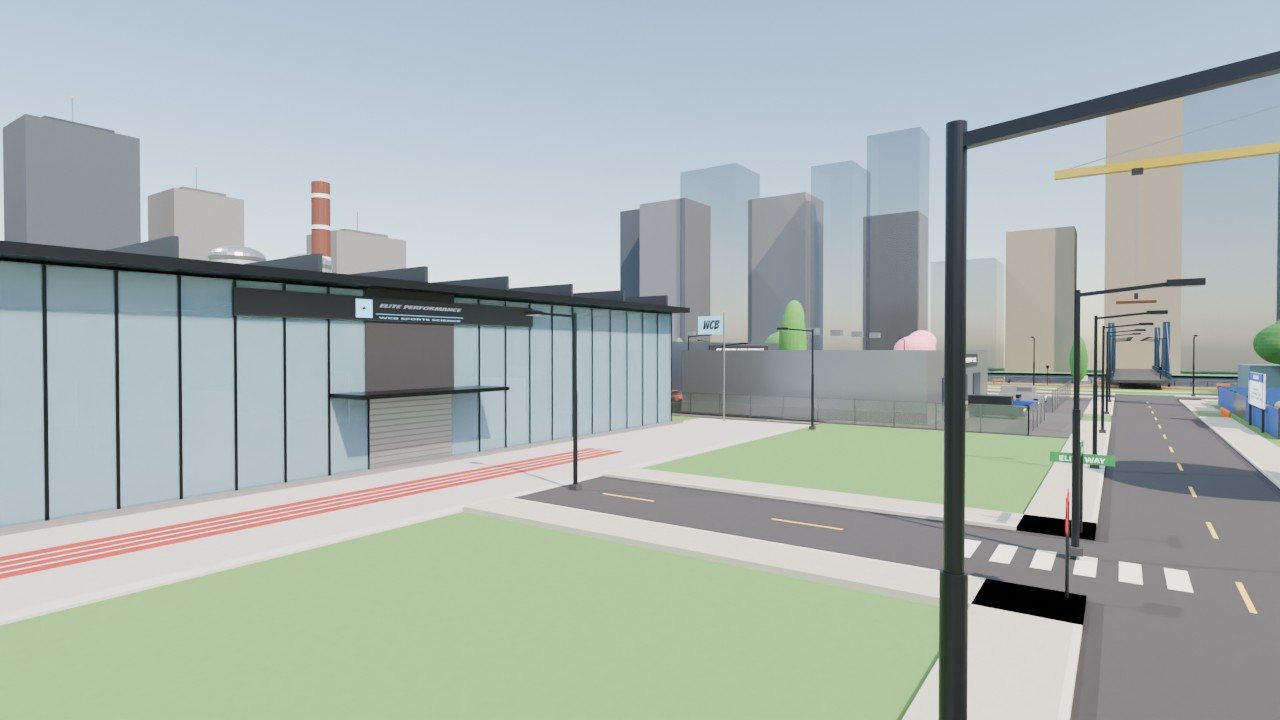
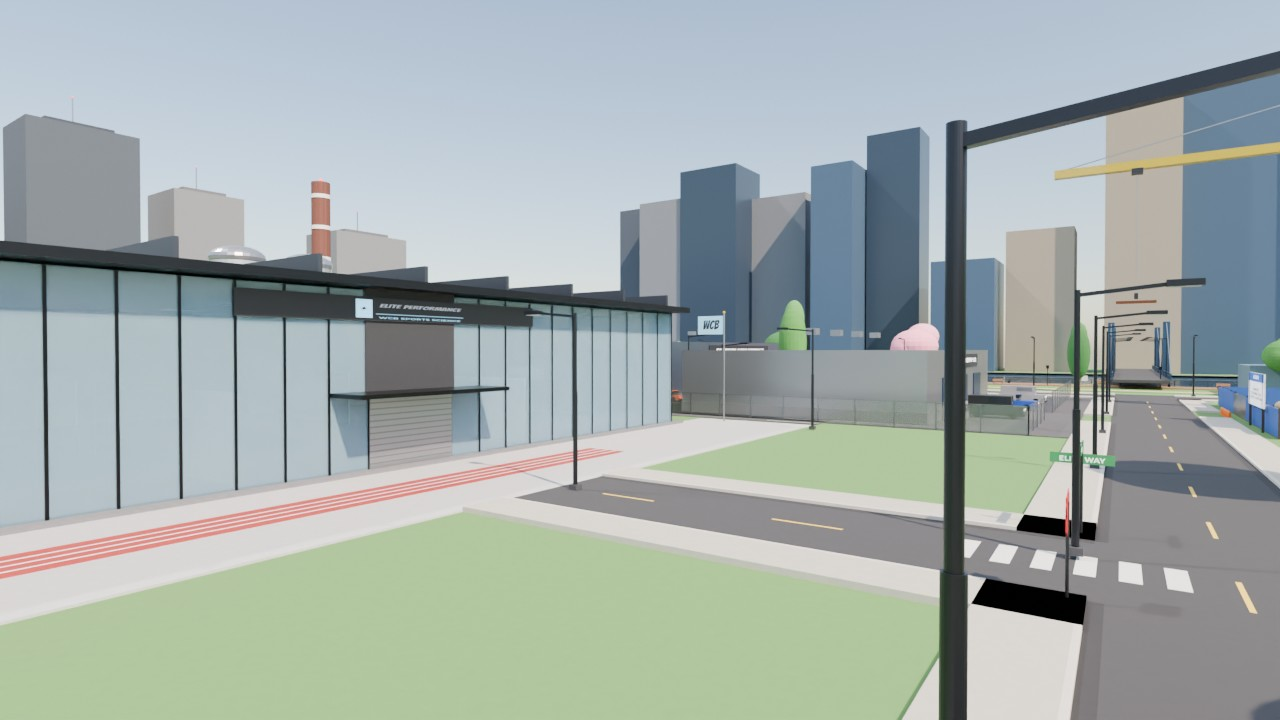
WIP: city overhaul checkpoint
Claude-Session: https://claude.ai/code/session_01HNk7DeEaHDaKo3zPgaW9Pz

diff --git a/world-class-boxer/tools/world/render_city_v10.py b/world-class-boxer/tools/world/render_city_v10.py
@@ -31,11 +31,11 @@ VIEWS = {
     "02_downtown_aerial": {"eye": (-420, 300, 820), "target": (40, 0, 260), "fov": 45, "mode": "day", "cull": ((0, 10, 250), 1100)},
     "03_main_street_day": {"eye": (-150, 7, 348), "target": (140, 10, 330), "fov": 55, "mode": "day", "cull": ((0, 10, 330), 900), "fig": (-132, 344, 70)},
     "04_main_street_night": {"eye": (-150, 7, 348), "target": (140, 10, 330), "fov": 55, "mode": "night", "cull": ((0, 10, 330), 700), "exposure": 1.0, "fig": (-132, 344, 70)},
-    "05_champion_ave": {"eye": (6, 7, 286), "target": (0, 14, 110), "fov": 55, "mode": "day", "cull": ((0, 10, 200), 800)},
+    "05_champion_ave": {"eye": (-16, 7, 268), "target": (0, 14, 110), "fov": 55, "mode": "day", "cull": ((0, 10, 200), 800)},
     "06_gym_forecourt": {"eye": (-70, 10, 160), "target": (0, 14, 70), "fov": 55, "mode": "day", "cull": ((0, 10, 110), 600)},
     "07_scale_car": {"eye": (114, 5.5, 142), "target": (90, 3.5, 112), "fov": 50, "mode": "day", "cull": ((90, 5, 115), 400), "fig": (101, 124, 150)},
     "08_scale_door": {"eye": (-394, 6.5, 344), "target": (-410, 5, 357), "fov": 50, "mode": "day", "cull": ((-410, 5, 350), 400), "fig": (-405, 352.5, 160)},
-    "09_scale_streetlight": {"eye": (-326, 6.5, 293), "target": (-352, 14, 299), "fov": 60, "mode": "day", "cull": ((-350, 10, 300), 500), "fig": (-345, 294.5, 120)},
+    "09_scale_streetlight": {"eye": (-336, 6, 314), "target": (-350, 13, 298), "fov": 55, "mode": "day", "cull": ((-350, 10, 300), 500), "fig": (-345, 296, 160)},
     "10_park_fountain": {"eye": (400, 9, 120), "target": (480, 8, 40), "fov": 55, "mode": "day", "cull": ((480, 10, 40), 600)},
     "11_arena_plaza": {"eye": (-110, 14, -430), "target": (0, 32, -570), "fov": 55, "mode": "day", "cull": ((0, 20, -520), 700)},
     "12_oak_street": {"eye": (-448, 8, 90), "target": (-430, 12, -120), "fov": 55, "mode": "day", "cull": ((-440, 10, -20), 600)},
